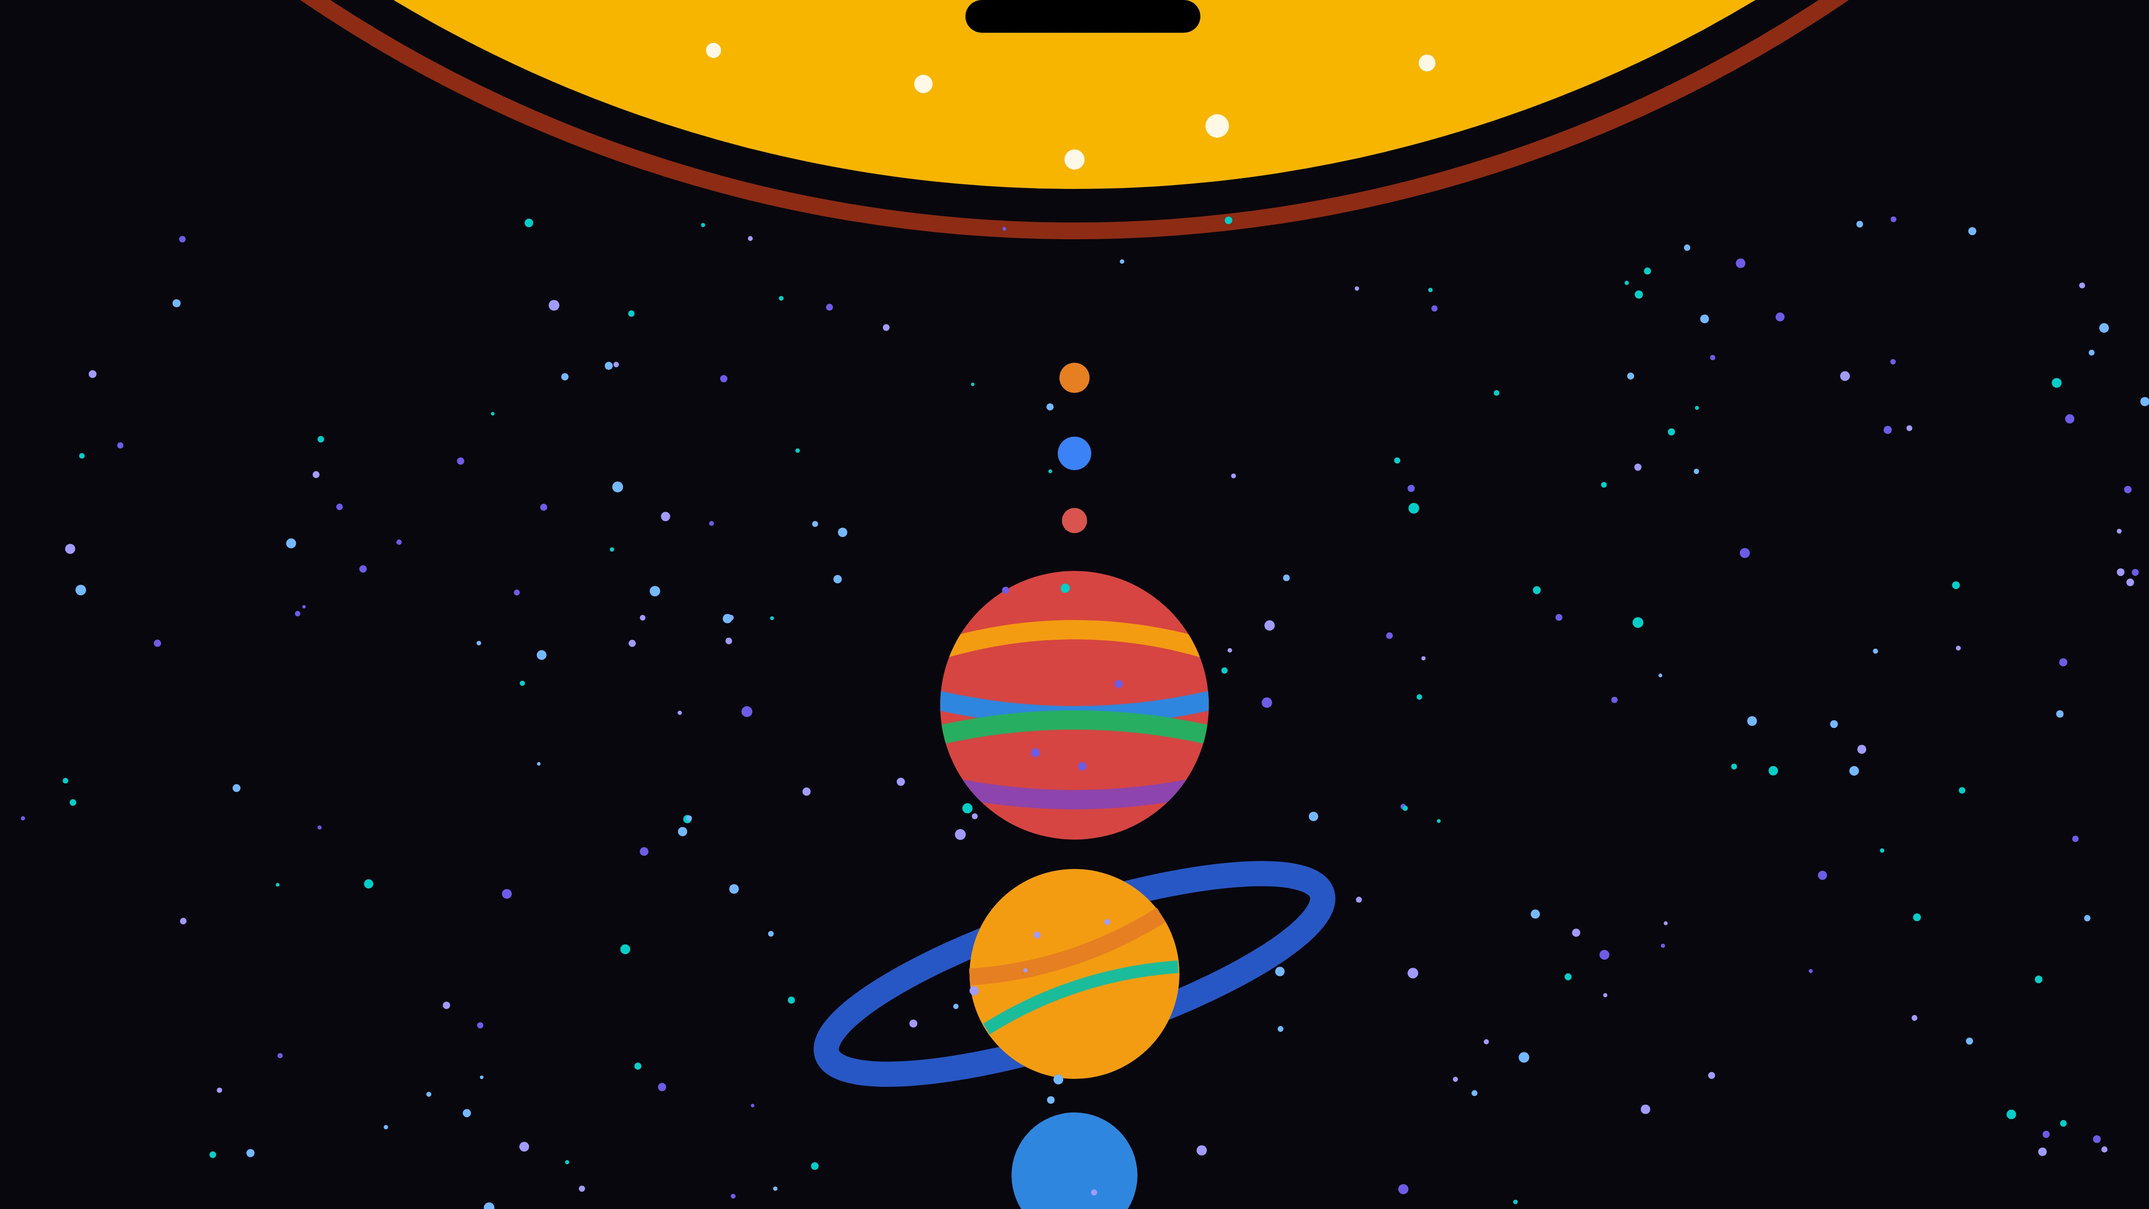
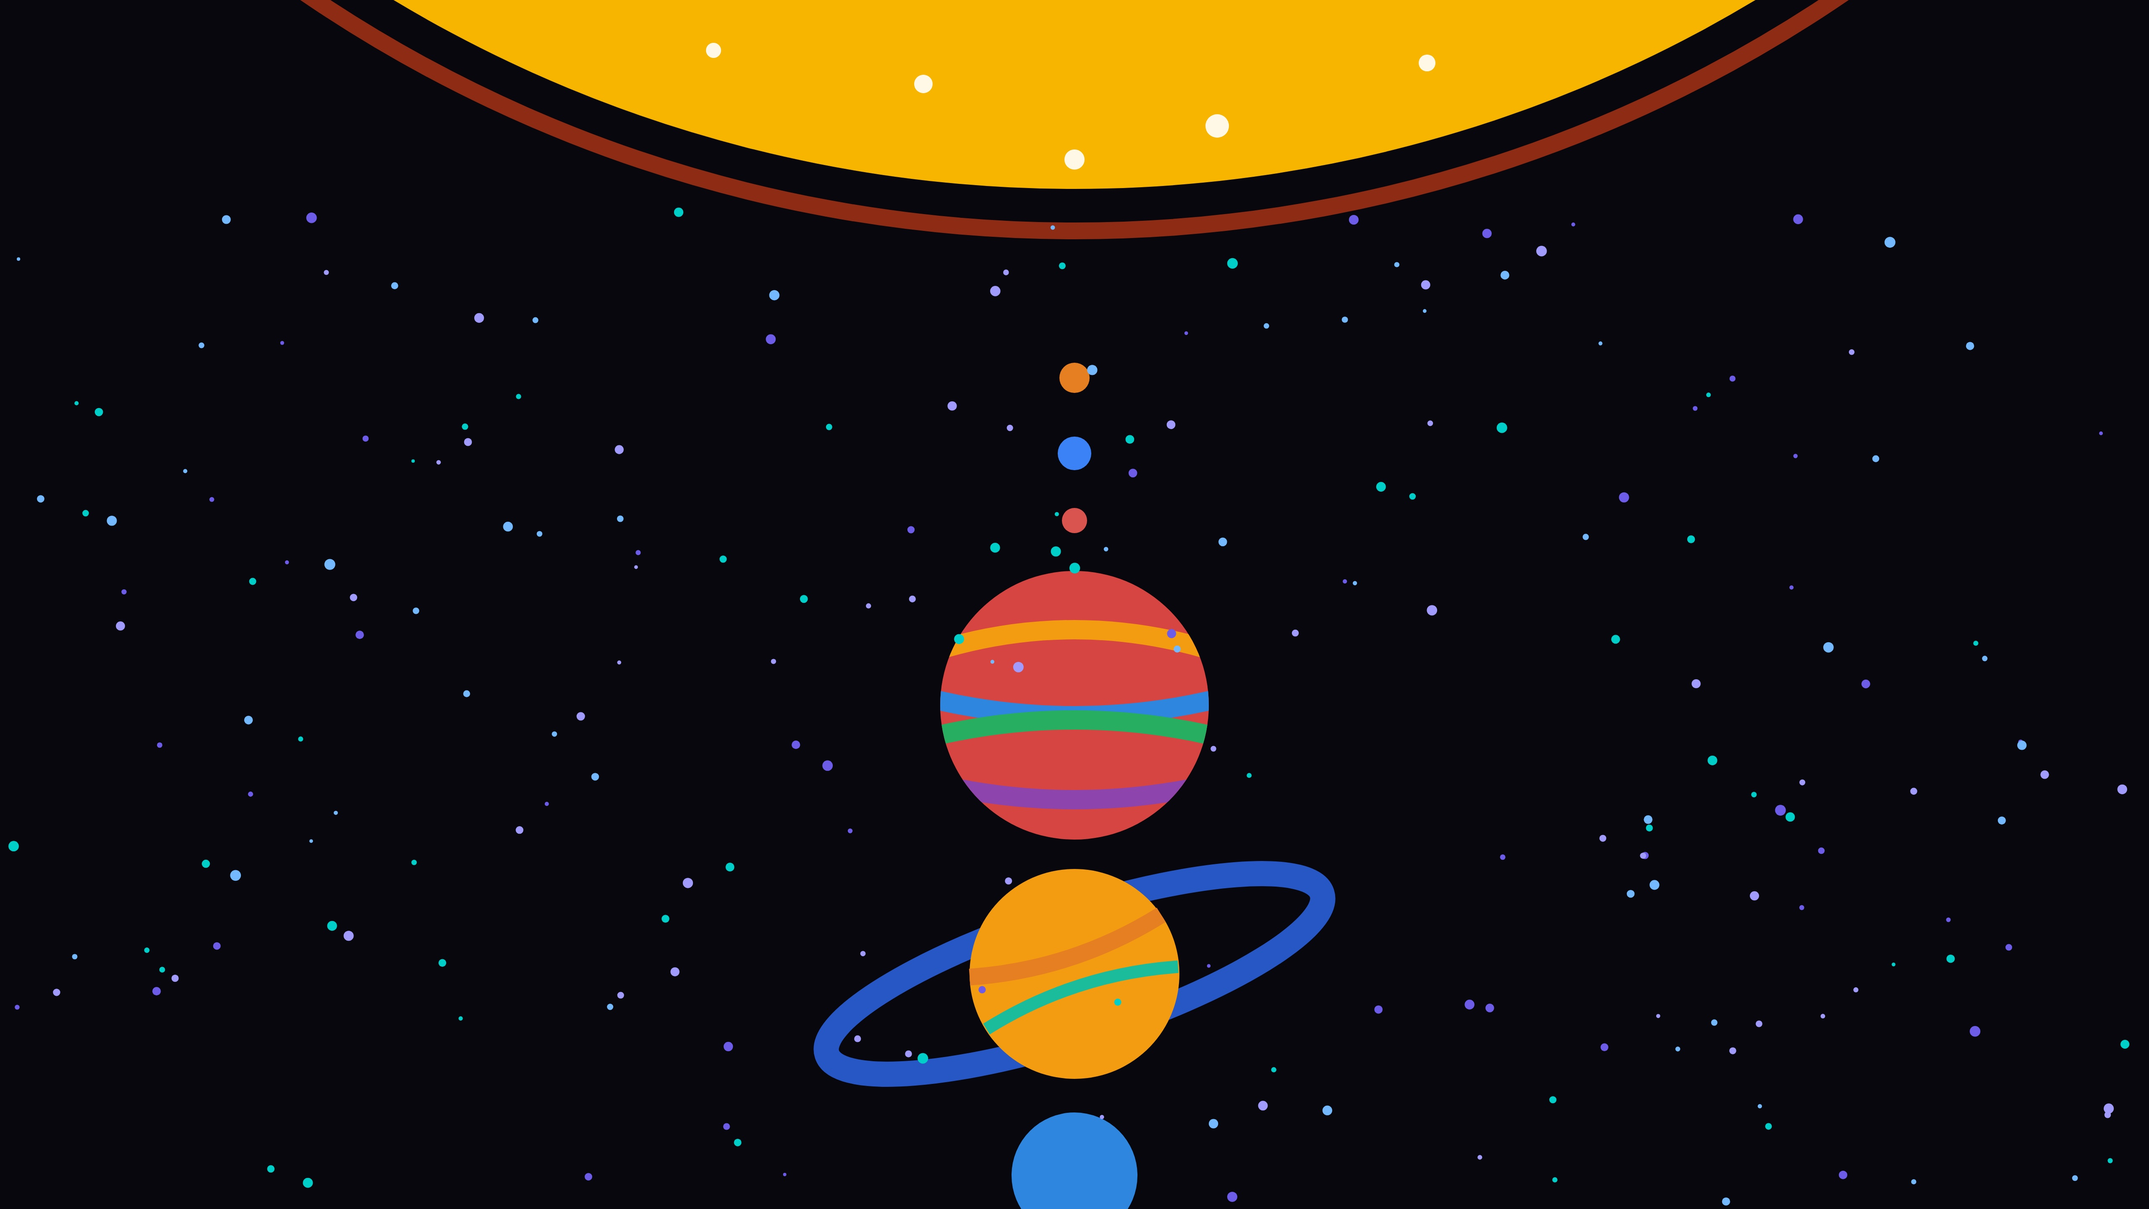
4.23: Hintergründe ohne gemalte Notch, Zuhause-Kurzbefehle anhaken
- Sechs Vektor-Hintergründe: die gemalte Pille, die obere Katze und die oberen Tropfen sind raus – die echte Notch mit Skin ist das Bildelement; je Bildschirm oben bündig gesetzt
- KI-Motive mit eingebackener Pille entfernt (passten nicht zur echten Notch-Größe)
- Werkzeuge › Zuhause: Kurzbefehle aus der Kurzbefehle-App anhaken, sie werden Kacheln im Reiter Zuhause; Knopf zur Kurzbefehle-App, Hinweis zur Home-App

Changed region(s): [[0.4375, 0.0, 0.5625, 0.0312]]

diff --git a/Sources/MacNotche/Hintergruende.swift b/Sources/MacNotche/Hintergruende.swift
@@ -1,13 +1,10 @@
 import AppKit
 import SwiftUI
 
-/// Mitgelieferte Schreibtischhintergründe (5120×2880), die die Notch als Bildelement einbinden.
+/// Mitgelieferte Schreibtischhintergründe (5120×2880): das Dekor liegt um die Notch herum, die Notch selbst malt die App.
 enum Hintergruende {
-    static let titel: [String: String] = [
-        "katze": "Katze", "tropfen": "Tropfen", "taschenlampe": "Taschenlampe", "planeten": "Planeten", "insel": "Insel", "glasbruch": "Glasbruch",
-        "programmierer": "Programmierer", "weizenfeld": "Weizenfeld", "astronaut-tinte": "Astronaut im Tintenfleck", "katzen-schreibtisch": "Katzen am Schreibtisch",
-        "weltraum": "Weltraum", "sonnenuntergang": "Sonnenuntergang", "dschungel": "Dschungel", "haengekatze": "Hängekatze"]
-    static let reihenfolge = ["katze", "tropfen", "taschenlampe", "planeten", "insel", "glasbruch", "haengekatze", "programmierer", "weizenfeld", "astronaut-tinte", "katzen-schreibtisch", "weltraum", "sonnenuntergang", "dschungel"]
+    static let titel: [String: String] = ["katze": "Katze", "tropfen": "Tropfen", "taschenlampe": "Taschenlampe", "planeten": "Planeten", "insel": "Insel", "glasbruch": "Glasbruch"]
+    static let reihenfolge = ["katze", "tropfen", "taschenlampe", "planeten", "insel", "glasbruch"]
 
     static var alle: [(name: String, url: URL)] {
         guard let ordner = Bundle.main.resourceURL?.appendingPathComponent("Hintergruende") else { return [] }
@@ -19,30 +16,55 @@ enum Hintergruende {
 
     static let eigeneOrdner = FileManager.default.homeDirectoryForCurrentUser.appendingPathComponent("Pictures/Mac Notche/Hintergründe", isDirectory: true)
 
-    /// Eigene Bilder aus dem Ordner (JPEG/PNG/HEIC), die nicht aus der App stammen.
+    /// Eigene Bilder aus dem Ordner – ohne die je Bildschirm erzeugten Dateien (…-5120x2880.jpg).
     static var eigene: [(name: String, url: URL)] {
-        let mitgeliefert = Set(reihenfolge.map { $0 + ".jpg" })
         let dateien = (try? FileManager.default.contentsOfDirectory(at: eigeneOrdner, includingPropertiesForKeys: nil)) ?? []
-        return dateien.filter { ["jpg", "jpeg", "png", "heic"].contains($0.pathExtension.lowercased()) && !mitgeliefert.contains($0.lastPathComponent) }
-            .sorted { $0.lastPathComponent < $1.lastPathComponent }
+        return dateien.filter { ["jpg", "jpeg", "png", "heic"].contains($0.pathExtension.lowercased()) }
             .map { ($0.deletingPathExtension().lastPathComponent, $0) }
+            .filter { !reihenfolge.contains($0.0) && $0.0.range(of: #"-\d+x\d+$"#, options: .regularExpression) == nil }
+            .sorted { $0.0 < $1.0 }
     }
 
-    /// Kopiert das Bild nach ~/Pictures/Mac Notche/Hintergründe und setzt es auf allen Bildschirmen.
+    /// Setzt das Motiv auf allen Bildschirmen. Je Bildschirm wird eine passgenaue Datei gebaut: auf Bildschirmbreite
+    /// skaliert und oben bündig, damit das Dekor an der Notch bleibt; was unten fehlt, füllt die Randfarbe des Bilds.
     static func setzen(_ url: URL) -> String? {
-        let ziel = eigeneOrdner
+        guard let quelle = NSImage(contentsOf: url), let cg = quelle.cgImage(forProposedRect: nil, context: nil, hints: nil) else { return L("Bild ließ sich nicht laden.") }
         do {
-            try FileManager.default.createDirectory(at: ziel, withIntermediateDirectories: true)
-            let datei = ziel.appendingPathComponent(url.lastPathComponent)
-            if datei != url {
-                if FileManager.default.fileExists(atPath: datei.path) { try FileManager.default.removeItem(at: datei) }
-                try FileManager.default.copyItem(at: url, to: datei)
-            }
+            try FileManager.default.createDirectory(at: eigeneOrdner, withIntermediateDirectories: true)
+            let basis = url.deletingPathExtension().lastPathComponent
             for s in NSScreen.screens {
-                try NSWorkspace.shared.setDesktopImageURL(datei, for: s, options: [.imageScaling: NSImageScaling.scaleProportionallyUpOrDown.rawValue, .allowClipping: true])
+                let f = s.backingScaleFactor
+                let breite = Int(s.frame.width * f), hoehe = Int(s.frame.height * f)
+                let datei = eigeneOrdner.appendingPathComponent("\(basis)-\(breite)x\(hoehe).jpg")
+                guard let daten = passend(cg, breite: breite, hoehe: hoehe) else { return L("Bild ließ sich nicht anpassen.") }
+                try daten.write(to: datei)
+                try NSWorkspace.shared.setDesktopImageURL(datei, for: s, options: [.imageScaling: NSImageScaling.scaleAxesIndependently.rawValue, .allowClipping: true])
             }
             return nil
         } catch { return error.localizedDescription }
+    }
+
+    static func passend(_ cg: CGImage, breite: Int, hoehe: Int) -> Data? {
+        let skala = CGFloat(breite) / CGFloat(cg.width)
+        let bildHoehe = Int(CGFloat(cg.height) * skala)
+        guard let ctx = CGContext(data: nil, width: breite, height: hoehe, bitsPerComponent: 8, bytesPerRow: 0, space: CGColorSpaceCreateDeviceRGB(), bitmapInfo: CGImageAlphaInfo.noneSkipLast.rawValue) else { return nil }
+        ctx.setFillColor(randfarbe(cg))
+        ctx.fill(CGRect(x: 0, y: 0, width: breite, height: hoehe))
+        ctx.interpolationQuality = .high
+        // CoreGraphics zählt y von unten: oben bündig heißt y = hoehe - bildHoehe.
+        ctx.draw(cg, in: CGRect(x: 0, y: CGFloat(hoehe - bildHoehe), width: CGFloat(breite), height: CGFloat(bildHoehe)))
+        guard let aus = ctx.makeImage() else { return nil }
+        return NSBitmapImageRep(cgImage: aus).representation(using: .jpeg, properties: [.compressionFactor: 0.9])
+    }
+
+    /// Mittlere Farbe der untersten Bildzeile (für die Auffüllung unter kurzen Bildern).
+    static func randfarbe(_ cg: CGImage) -> CGColor {
+        guard let ctx = CGContext(data: nil, width: 1, height: 1, bitsPerComponent: 8, bytesPerRow: 4, space: CGColorSpaceCreateDeviceRGB(), bitmapInfo: CGImageAlphaInfo.noneSkipLast.rawValue),
+              let streifen = cg.cropping(to: CGRect(x: 0, y: cg.height - max(1, cg.height / 50), width: cg.width, height: max(1, cg.height / 50))) else { return CGColor(gray: 0, alpha: 1) }
+        ctx.interpolationQuality = .high
+        ctx.draw(streifen, in: CGRect(x: 0, y: 0, width: 1, height: 1))
+        guard let d = ctx.data?.assumingMemoryBound(to: UInt8.self) else { return CGColor(gray: 0, alpha: 1) }
+        return CGColor(red: CGFloat(d[0]) / 255, green: CGFloat(d[1]) / 255, blue: CGFloat(d[2]) / 255, alpha: 1)
     }
 }
 
@@ -52,7 +74,7 @@ struct HintergruendeSeite: View {
     private let spalten = [GridItem(.adaptive(minimum: 150), spacing: 12)]
     var body: some View {
         Section {
-            Text("14 Hintergründe in 5K (5120 × 2880), bei denen die Notch Teil des Bildes ist. Klick setzt den Hintergrund auf allen Bildschirmen; die Datei landet in Bilder › Mac Notche › Hintergründe. Eigene Bilder in diesem Ordner erscheinen hier ebenfalls.")
+            Text("Sechs Hintergründe in 5K, deren Dekor an der Notch ansetzt – die Notch selbst ist die echte mit deinem Skin. Klick setzt den Hintergrund auf allen Bildschirmen; die Datei landet in Bilder › Mac Notche › Hintergründe. Eigene Bilder in diesem Ordner erscheinen hier ebenfalls.")
                 .font(.caption).foregroundStyle(.secondary)
             raster(Hintergruende.alle)
             if !Hintergruende.eigene.isEmpty {
@@ -69,22 +91,22 @@ struct HintergruendeSeite: View {
     }
 
     private func raster(_ liste: [(name: String, url: URL)]) -> some View {
-            LazyVGrid(columns: spalten, spacing: 12) {
-                ForEach(liste, id: \.name) { h in
-                    Button {
-                        hinweis = Hintergruende.setzen(h.url)
-                        gesetzt = hinweis == nil ? h.name : nil
-                    } label: {
-                        VStack(spacing: 4) {
-                            AsyncImage(url: h.url) { bild in bild.resizable().aspectRatio(16 / 9, contentMode: .fill) } placeholder: { Color.gray.opacity(0.2) }
-                                .frame(height: 84).clipShape(RoundedRectangle(cornerRadius: 8))
-                                .overlay(RoundedRectangle(cornerRadius: 8).stroke(gesetzt == h.name ? Color.accentColor : Color.primary.opacity(0.15), lineWidth: gesetzt == h.name ? 3 : 1))
-                            Text(Hintergruende.titel[h.name] ?? h.name).font(.system(size: 11)).lineLimit(1)
-                        }
+        LazyVGrid(columns: spalten, spacing: 12) {
+            ForEach(liste, id: \.name) { h in
+                Button {
+                    hinweis = Hintergruende.setzen(h.url)
+                    gesetzt = hinweis == nil ? h.name : nil
+                } label: {
+                    VStack(spacing: 4) {
+                        AsyncImage(url: h.url) { bild in bild.resizable().aspectRatio(16 / 9, contentMode: .fill) } placeholder: { Color.gray.opacity(0.2) }
+                            .frame(height: 84).clipShape(RoundedRectangle(cornerRadius: 8))
+                            .overlay(RoundedRectangle(cornerRadius: 8).stroke(gesetzt == h.name ? Color.accentColor : Color.primary.opacity(0.15), lineWidth: gesetzt == h.name ? 3 : 1))
+                        Text(Hintergruende.titel[h.name] ?? h.name).font(.system(size: 11)).lineLimit(1)
                     }
-                    .buttonStyle(.plain)
-                    .help("Als Schreibtischhintergrund setzen")
                 }
+                .buttonStyle(.plain)
+                .help("Als Schreibtischhintergrund setzen")
             }
+        }
     }
 }

diff --git a/Sources/MacNotche/Einstellungen.swift b/Sources/MacNotche/Einstellungen.swift
@@ -13,7 +13,7 @@ enum E {
     static let fensterAktiv = "fenster.aktiv", augenMinuten = "augen.minuten", trinkenMinuten = "trinken.minuten", bausteine = "bausteine"
     static let emojiKuerzel = "emoji.kuerzel", aktien = "aktien", notizen = "notizen"
     static let leisteAktiv = "leiste.aktiv", leisteSekunden = "leiste.sekunden", fragenModell = "fragen.modell", fragenKI = "fragen.ki", wetterOrt = "wetter.ort", reiterAus = "reiter.aus", zuhauseWoerter = "zuhause.woerter", notizOrdner = "notiz.ordner", diktatSprache = "diktat.sprache", downloadsAblage = "downloads.ablage", zuKI = "zu.ki", zuAus = "zu.aus"
-    static let sportLiga = "sport.liga", sportVereine = "sport.vereine", geraet = "geraet", notchHoehe = "notch.hoehe"
+    static let sportLiga = "sport.liga", sportVereine = "sport.vereine", geraet = "geraet", notchHoehe = "notch.hoehe", zuhauseAuswahl = "zuhause.auswahl"
     static let fensterZiehen = "fenster.ziehen", kurzbefehle = "kurzbefehle"
     static func meldung(_ art: String) -> String { "meldung.\(art)" }
 }
@@ -572,6 +572,8 @@ struct WerkzeugeSeite: View {
     @AppStorage(E.fensterZiehen) var ziehen = true
     @AppStorage(E.kurzbefehle) var kurzbefehle = ""
     @AppStorage(E.zuhauseWoerter) var zuhauseWoerter = ""
+    @AppStorage(E.zuhauseAuswahl) var zuhauseAuswahl = ""
+    private var auswahlListe: [String] { zuhauseAuswahl.split(separator: "\n").map(String.init).filter { !$0.isEmpty } }
     @AppStorage(E.notizOrdner) var notizOrdner = ""
     @AppStorage(E.diktatSprache) var diktatSprache = "de-DE"
     @State private var alleKurzbefehle: [String] = []
@@ -656,9 +658,27 @@ struct WerkzeugeSeite: View {
             Text("„In Ordner“ legt eine Markdown-Datei mit Datum und Frontmatter ab; leer = Vault-Inbox, sonst ~/Dokumente/Notizen. Erste Nutzung fragt nach Mikrofon und Spracherkennung.")
         }
         Section {
-            TextField("Stichwörter", text: $zuhauseWoerter, prompt: Text(Zuhause.standardWoerter))
-        } header: { Text("Reiter „Zuhause“ (HomeKit über Kurzbefehle)") } footer: {
-            Text("Zeigt Kurzbefehle aus dem Ordner „Zuhause“ der Kurzbefehle-App, sonst alle, deren Name eines dieser Wörter enthält. Kurzbefehle können HomeKit-Szenen und -Geräte schalten – so kommt dein Zuhause in die Notch.")
+            if alleKurzbefehle.isEmpty {
+                Text("Kurzbefehle werden geladen …").foregroundStyle(.secondary)
+            } else {
+                ScrollView {
+                    VStack(alignment: .leading, spacing: 2) {
+                        ForEach(alleKurzbefehle, id: \.self) { n in
+                            Toggle(n, isOn: Binding(get: { auswahlListe.contains(n) }, set: { an in
+                                var l = auswahlListe
+                                if an { if !l.contains(n) { l.append(n) } } else { l.removeAll { $0 == n } }
+                                zuhauseAuswahl = l.joined(separator: "\n")
+                            })).toggleStyle(.checkbox)
+                        }
+                    }.frame(maxWidth: .infinity, alignment: .leading)
+                }.frame(maxHeight: 220)
+                Text(auswahlListe.isEmpty ? L("Nichts angehakt – es gelten Ordner „Zuhause“ oder die Stichwörter.") : "\(auswahlListe.count) " + L("Kurzbefehle im Reiter „Zuhause“"))
+                    .font(.caption).foregroundStyle(.secondary)
+            }
+            TextField("Stichwörter (ohne Haken)", text: $zuhauseWoerter, prompt: Text(Zuhause.standardWoerter))
+            Button("Kurzbefehle-App öffnen") { NSWorkspace.shared.open(URL(string: "shortcuts://")!) }
+        } header: { Text("Reiter „Zuhause“ (Home-App über Kurzbefehle)") } footer: {
+            Text("Angehakte Kurzbefehle werden Kacheln im Reiter „Zuhause“ der Notch. Die Home-App gibt ihre Geräte nur an App-Store-Apps frei; der Weg geht über Kurzbefehle: in der Kurzbefehle-App einen Kurzbefehl mit der Aktion „Zuhause steuern“ anlegen (Szene oder Gerät), dann hier anhaken. Ohne Haken gelten der Ordner „Zuhause“ oder die Stichwörter.")
         }
         Section {
             TextField("Kurzbefehle", text: $kurzbefehle, prompt: Text("Name 1, Name 2"))

diff --git a/Sources/MacNotche/Ziehen.swift b/Sources/MacNotche/Ziehen.swift
@@ -110,7 +110,9 @@ final class Zuhause: ObservableObject {
             let woerter = (UserDefaults.standard.string(forKey: E.zuhauseWoerter) ?? Self.standardWoerter)
                 .split(separator: ",").map { $0.trimmingCharacters(in: .whitespaces).lowercased() }.filter { !$0.isEmpty }
             // Wortanfänge statt Teilstrings: „Langzeitbelichtung“ soll nicht als „Licht“ zählen.
-            let treffer = ordner ?? alle.filter { n in
+            let auswahl = (UserDefaults.standard.string(forKey: E.zuhauseAuswahl) ?? "").split(separator: "\n").map(String.init).filter { !$0.isEmpty }
+            // Angehakte Kurzbefehle aus den Einstellungen haben Vorrang vor Ordner und Stichwörtern.
+            let treffer = !auswahl.isEmpty ? auswahl.filter { alle.isEmpty || alle.contains($0) } : ordner ?? alle.filter { n in
                 let teile = n.lowercased().split(whereSeparator: { !$0.isLetter && !$0.isNumber }).map(String.init)
                 return woerter.contains { w in teile.contains { $0.hasPrefix(w) } || (w.contains(" ") && n.lowercased().contains(w)) }
             }

diff --git a/README.md b/README.md
@@ -2,7 +2,7 @@
 
 Die Notch als Schaltzentrale für den Mac – auch auf Macs ohne Notch (Mac Studio, Mac mini, externe Monitore). Alles frei, kein Abo, keine Sperren.
 
-**[Download: Mac Notche 4.22.dmg](../../releases/latest)** · macOS 14.2 oder neuer · Apple Silicon
+**[Download: Mac Notche 4.23.dmg](../../releases/latest)** · macOS 14.2 oder neuer · Apple Silicon
 
 ## Funktionen
 
@@ -21,7 +21,7 @@ Die Notch als Schaltzentrale für den Mac – auch auf Macs ohne Notch (Mac Stud
 | Ablage | Dateien ablegen, umwandeln (PNG/JPEG/HEIC), DMG installieren, per AirDrop senden; Freistellen (⌥⌘4): Bildschirmbereich aufziehen, Text wird erkannt und kopiert, das Bild liegt in der Ablage |
 | iPhone | Name, Akku und neue Fotos per Kabel oder über WLAN (Finder-WLAN-Sync + libimobiledevice), Übernahme in die Fotos-App |
 | Fokus | Timer (auch per Text im Reiter Fragen: „15 min Tee“ läuft in der Leiste), Fokus 25+5, braunes Rauschen, Augen- und Trinkpause, Ton-Ausgabe, Lautstärke pro App, Notizen |
-| Zuhause | HomeKit über Kurzbefehle: Szenen und Geräte als Kacheln (Ordner „Zuhause“ oder Stichwörter) |
+| Zuhause | Home-App über Kurzbefehle: in den Einstellungen Kurzbefehle anhaken (sonst Ordner „Zuhause“ oder Stichwörter), sie werden Kacheln |
 | Werkzeuge | Spiegel (Kamera), Wach halten, Zwischenablage-Verlauf |
 
 ## Bilder
@@ -58,7 +58,7 @@ Die Notch als Schaltzentrale für den Mac – auch auf Macs ohne Notch (Mac Stud
 
 Katze und die drei Hunde stammen aus Vektorvorlagen.
 
-**Hintergründe (Einstellungen › Hintergründe):** 14 Schreibtischhintergründe in 5K, bei denen die Notch Teil des Bildes ist (Katze, Tropfen, Taschenlampe, Planeten, Insel, Glasbruch, Hängekatze, Programmierer, Weizenfeld, Astronaut, Katzen am Schreibtisch, Weltraum, Sonnenuntergang, Dschungel); ein Klick setzt sie; eigene Bilder im Ordner Bilder › Mac Notche › Hintergründe erscheinen ebenfalls.
+**Hintergründe (Einstellungen › Hintergründe):** sechs Schreibtischhintergründe in 5K, deren Dekor an der Notch ansetzt (Katze, Tropfen, Taschenlampe, Planeten, Insel, Glasbruch) – die Notch selbst bleibt die echte mit deinem Skin; ein Klick setzt sie passgenau je Bildschirm; eigene Bilder im Ordner Bilder › Mac Notche › Hintergründe erscheinen ebenfalls.
 
 **Im Hintergrund:** Lautstärke- und Feststell-Anzeige, Bluetooth- und Akku-Meldungen, Termin-Hinweis, Termin-Countdown in der zugeklappten Notch (ab 60 Min. vorher, ab 10 Min. orange, Klick öffnet Zoom/Teams/Meet), Downloads-Wächter (neue Datei → Meldung und Ablage), Fenster einrasten (per ⌃⌥-Tastenkürzel oder Ziehen an den Rand), Textbausteine und Emoji-Kürzel (`;mfg`, `:herz:`), Menüleisten-Symbole ausblenden, Bildschirmecken mit Aktionen, Gesicht entsperren.
 
